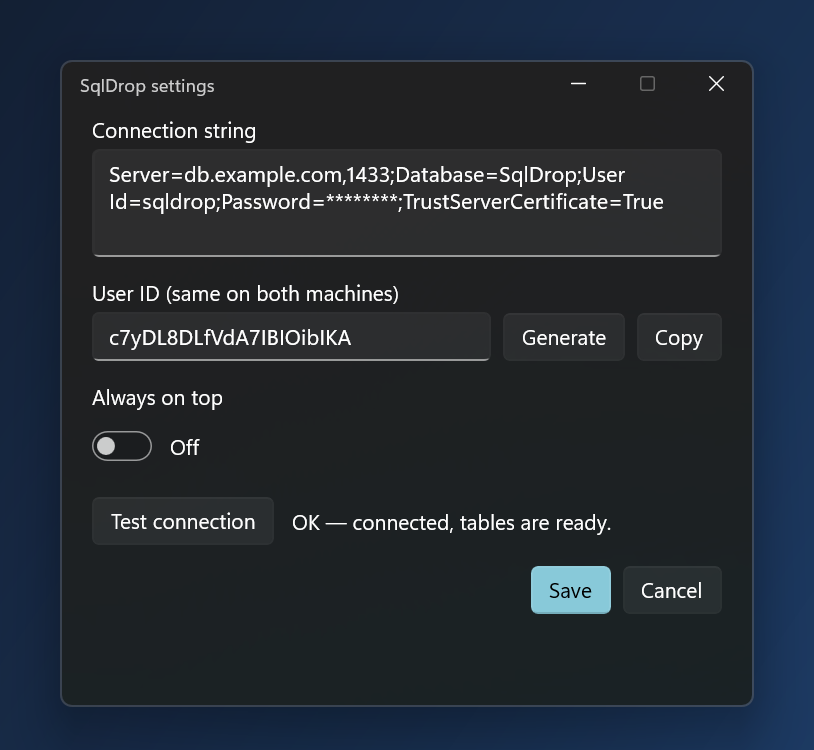
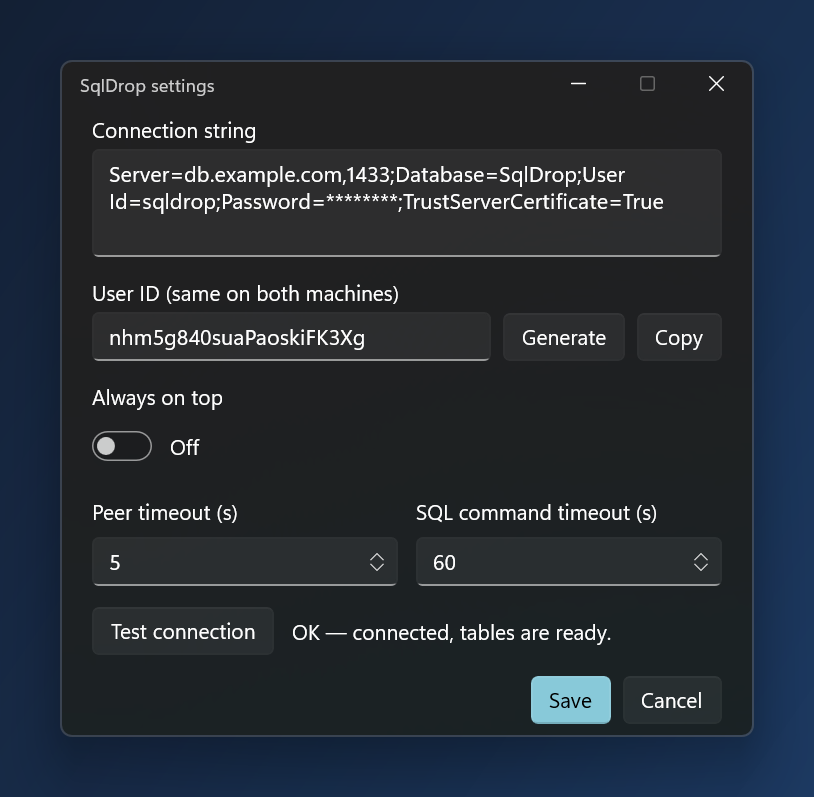
docs: document timeout settings and update settings screenshot

diff --git a/README.md b/README.md
@@ -36,7 +36,7 @@ The main states of the window (Windows 11, dark theme; the window follows the sy
   </tr>
   <tr>
     <td align="center"><img src="docs/screenshots/main-done.png" alt="Transfer done"><br><b>Done</b><br>The file is saved and the transfer is removed from the database.</td>
-    <td align="center" colspan="2"><img src="docs/screenshots/settings.png" alt="Settings window" width="420"><br><b>Settings</b><br>Connection string, User ID (generate / copy), always-on-top and a connection test that also creates the tables. (Values shown are placeholders.)</td>
+    <td align="center" colspan="2"><img src="docs/screenshots/settings.png" alt="Settings window" width="420"><br><b>Settings</b><br>Connection string, User ID (generate / copy), always-on-top, peer and SQL command timeouts, and a connection test that also creates the tables. (Values shown are placeholders.)</td>
   </tr>
 </table>
 
@@ -120,7 +120,7 @@ Settings are saved in `config.json` next to the exe:
 | `CommandTimeoutSeconds` | Timeout of every SQL command, including each 1 MB chunk upload/download (default `60`, allowed 5–600). Raise on a slow link. |
 | `WindowX`, `WindowY` | Last window position |
 
-The two timeout fields are not shown in the settings window; edit `config.json` while the app is closed (they are written out the first time you press Save). The *login* timeout is part of the connection string (`Connect Timeout=30`). Changes apply on the next start.
+Both timeouts are also in the settings window (*Peer timeout* and *SQL command timeout*) and take effect as soon as you press Save. The *login* timeout is part of the connection string (`Connect Timeout=30`).
 
 You can run several instances from the same folder; each gets its own identity at start-up.
 
@@ -173,8 +173,8 @@ Stack: C#, .NET 8, WinUI 3 (Windows App SDK 1.8), Dapper, Microsoft.Data.SqlClie
 | Symptom | Likely cause |
 |---|---|
 | **No DB connection** (hover the status for the error) | Wrong connection string, server unreachable, missing permissions. On Docker use `127.0.0.1` rather than `localhost`. |
-| **Waiting for peer** on both | Different User IDs, different databases, or the other side isn't running or can't reach the DB. On a slow or flaky link also try a larger `PeerTimeoutSeconds`. |
-| Transfer fails with a timeout error | Slow link: raise `CommandTimeoutSeconds` in `config.json`. |
+| **Waiting for peer** on both | Different User IDs, different databases, or the other side isn't running or can't reach the DB. On a slow or flaky link also try a larger *Peer timeout* in settings. |
+| Transfer fails with a timeout error | Slow link: raise *SQL command timeout* in settings. |
 | **Channel busy** | Two other instances already use this User ID. |
 | "The app folder is not writable" | Move the folder somewhere you can write (config is stored next to the exe). |
 | App doesn't start at all | Missing .NET 8 Desktop Runtime or Windows App SDK 1.8 runtime. |

diff --git a/docs/REQUIREMENTS.md b/docs/REQUIREMENTS.md
@@ -40,7 +40,7 @@ A utility for transferring files between two machines of the same user through a
 ### 3.3 Presence (heartbeat)
 - FR-10. Each instance has an `InstanceId` (random GUID generated on every process start, **never persisted** — two windows sharing one config, or a copied app folder, must still be distinct peers) and once per second runs `UPDATE Peers SET LastSeen = SYSUTCDATETIME()` (the row is created via `MERGE`/upsert on start).
 - FR-11. The same round trip (or the next one) reads the other instance's `LastSeen` for the same channel. Time is compared **using the DB server clock** (`DATEDIFF(MILLISECOND, LastSeen, SYSUTCDATETIME())`), not client clocks.
-- FR-12. Threshold: a peer is alive if its `LastSeen` is not older than **5 s** (configurable via `PeerTimeoutSeconds` in `config.json`, 2–300 s). The SQL command timeout is likewise configurable (`CommandTimeoutSeconds`, default 60 s, 5–600 s); the login timeout is set in the connection string.
+- FR-12. Threshold: a peer is alive if its `LastSeen` is not older than **5 s** (configurable in the settings window / `PeerTimeoutSeconds` in `config.json`, 2–300 s). The SQL command timeout is likewise configurable (settings window / `CommandTimeoutSeconds`, default 60 s, 5–600 s); the login timeout is set in the connection string.
 - FR-13. A DB error on heartbeat → status "No DB connection"; retries continue at the same interval; the status recovers automatically.
 - FR-14. On graceful shutdown the app deletes its own `Peers` row so the peer sees the disconnect immediately.
 - FR-15. If a live instance with a different InstanceId already exists in the channel, there are exactly two. A third active instance gets an error status "Channel busy". Rule: at most 2 live peers.
